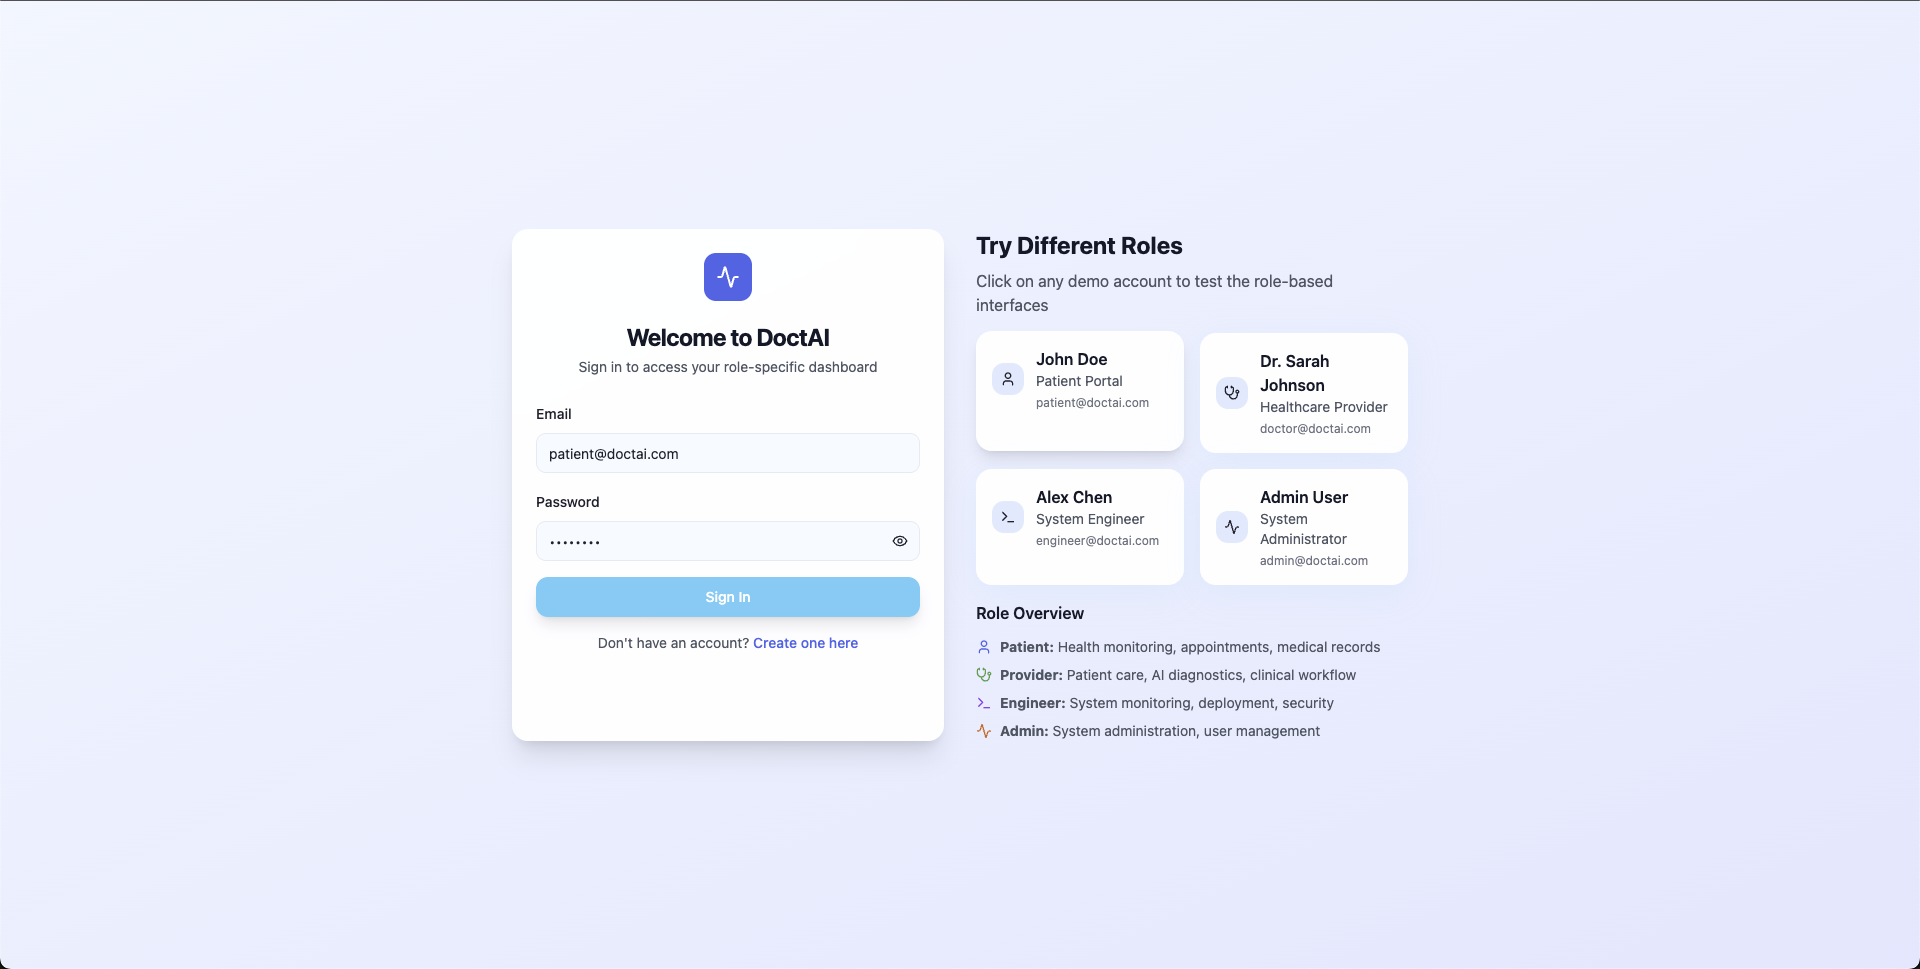
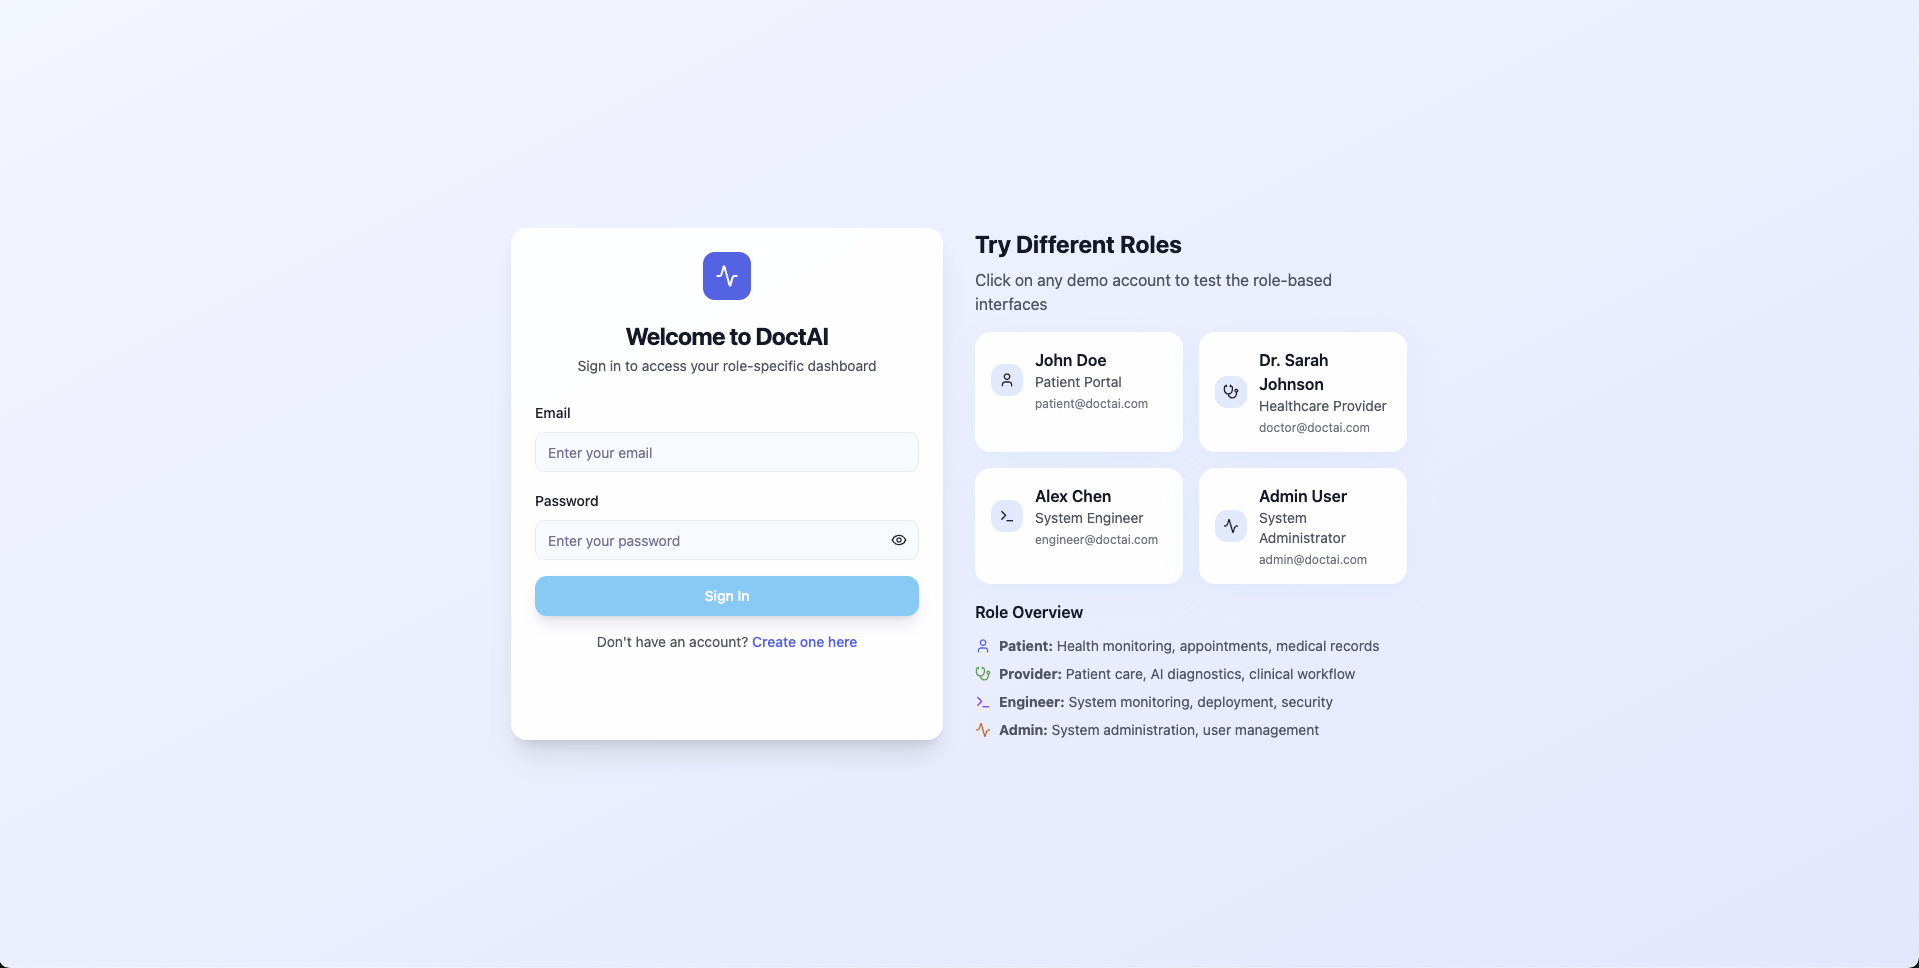
Update DoctAI Health Hub project images and gallery

diff --git a/src/data/projects.ts b/src/data/projects.ts
@@ -86,24 +86,24 @@ export const projects: Project[] = [
     metric: 'Modular UI with 30+ tested components',
     gallery: [
       '/images/projects/doctai-health-hub/01-sign-in.png',
-      '/images/projects/doctai-health-hub/02-dashboard-1.png',
-      '/images/projects/doctai-health-hub/03-dashboard-2.png',
-      '/images/projects/doctai-health-hub/04-dashboard-3.png',
-      '/images/projects/doctai-health-hub/05-analytics-overview.png',
-      '/images/projects/doctai-health-hub/06-analytics-health-score.png',
-      '/images/projects/doctai-health-hub/07-analytics-imaging.png',
-      '/images/projects/doctai-health-hub/08-analytics-progress-tracking.png',
-      '/images/projects/doctai-health-hub/09-medical-records.png',
-      '/images/projects/doctai-health-hub/10-find-care.png',
-      '/images/projects/doctai-health-hub/11-scheduling.png',
-      '/images/projects/doctai-health-hub/12-history.png',
-      '/images/projects/doctai-health-hub/13-diet-plan-1.png',
-      '/images/projects/doctai-health-hub/14-diet-plan-2.png',
-      '/images/projects/doctai-health-hub/15-fitness-1.png',
-      '/images/projects/doctai-health-hub/16-fitness-datasync.png',
-      '/images/projects/doctai-health-hub/17-risk-analysis.png',
-      '/images/projects/doctai-health-hub/18-settings.png',
-      '/images/projects/doctai-health-hub/19-user-profile.png',
+      '/images/projects/doctai-health-hub/02-sign-in-patient.png',
+      '/images/projects/doctai-health-hub/03-user-profile.png',
+      '/images/projects/doctai-health-hub/04-dashboard.png',
+      '/images/projects/doctai-health-hub/05-dashboard-3.png',
+      '/images/projects/doctai-health-hub/06-analytics-overview.png',
+      '/images/projects/doctai-health-hub/07-risk-analysis.png',
+      '/images/projects/doctai-health-hub/08-analytics-imaging.png',
+      '/images/projects/doctai-health-hub/09-analytics-progress.png',
+      '/images/projects/doctai-health-hub/10-analytics-health-score.png',
+      '/images/projects/doctai-health-hub/11-medical-records.png',
+      '/images/projects/doctai-health-hub/12-find-care.png',
+      '/images/projects/doctai-health-hub/13-scheduling.png',
+      '/images/projects/doctai-health-hub/14-history.png',
+      '/images/projects/doctai-health-hub/15-settings.png',
+      '/images/projects/doctai-health-hub/16-fitness.png',
+      '/images/projects/doctai-health-hub/17-fitness-datasync.png',
+      '/images/projects/doctai-health-hub/18-diet-plan.png',
+      '/images/projects/doctai-health-hub/19-diet-plan-2.png',
     ],
   },
   {

diff --git a/src/components/Projects.tsx b/src/components/Projects.tsx
@@ -212,7 +212,7 @@ const Projects = () => {
                           ) : projects[currentProject].title === 'DoctAI Health Hub' ? (
                             <div className="text-center p-8 w-full h-full flex flex-col items-center justify-center">
                               <img
-                                src="/images/projects/doctai-health-hub/02-dashboard-1.png"
+                                src="/images/projects/doctai-health-hub/04-dashboard.png"
                                 alt="DoctAI Health Hub project preview"
                                 className="w-full h-full object-cover absolute inset-0 opacity-40 group-hover:opacity-20 transition-opacity duration-300"
                                 loading="lazy"
@@ -306,7 +306,7 @@ const Projects = () => {
                           ) : projects[currentProject].title === 'DoctAI Health Hub' ? (
                             <div className="text-center p-8 w-full h-full flex flex-col items-center justify-center">
                               <img
-                                src="/images/projects/doctai-health-hub/02-dashboard-1.png"
+                                src="/images/projects/doctai-health-hub/04-dashboard.png"
                                 alt="DoctAI Health Hub project preview"
                                 className="w-full h-full object-cover absolute inset-0 opacity-40 group-hover:opacity-20 transition-opacity duration-300"
                                 loading="lazy"
